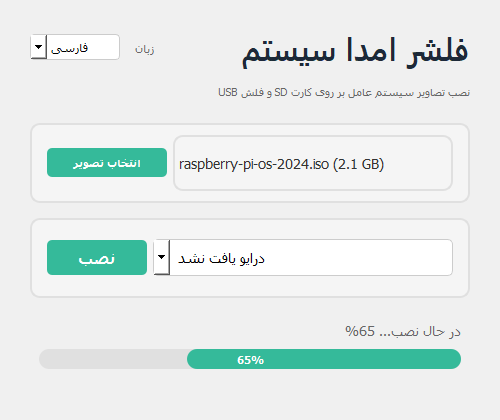
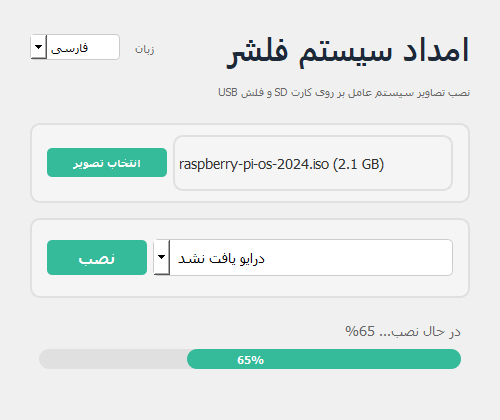
Fix Persian app name typo: امداد سیستم فلشر

Changed region(s): [[0.45, 0.0929, 0.96, 0.1857]]

diff --git a/README_fa.md b/README_fa.md
@@ -1,4 +1,4 @@
-# فلشر امدا سیستم (EMSYS Flasher)
+# امداد سیستم فلشر (EMSYS Flasher)
 
 ابزاری سبک و چندسکویی برای نصب تصاویر سیستم عامل بر روی کارتهای SD و فلش USB. ساخته شده توسط [امداد سیستم](https://emsys.ir).
 
